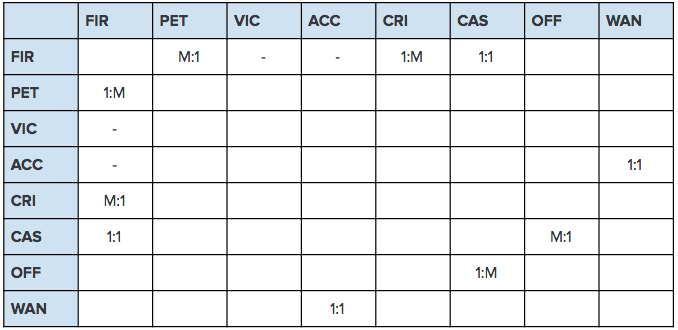
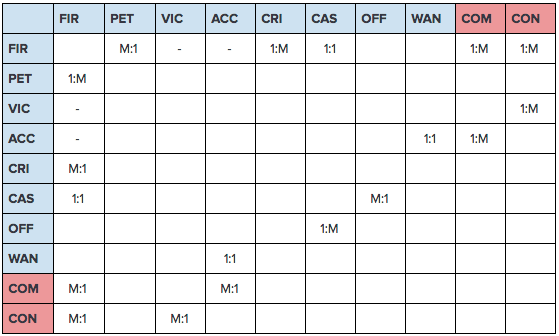
update

Changed region(s): [[0.0, 0.0, 1.0, 1.0]]

diff --git a/README.md b/README.md
@@ -116,7 +116,6 @@ Computers, smartphones, tablets
 ### Wanted
 
 - **Wanted ID:** Unique number for wanted in the list
-- **Accused ID:** What accused ID held by wanted (as foreign key)
 - **Alias:** Nickname of wanted
 - **Height:** Height of wanted
 - **Race:** Racial information of wanted
@@ -180,10 +179,10 @@ There is **mandatory many to mandatory many** relationship between FIR and victi
 ### FIR - Accused
 
 - FIR is filed against accused.
-- One FIR can point more than one accused. However, an accused can be unknown.
+- One FIR can point more than one accused.
 - More than one FIRs can point one accused, and one accused is always pointed by at least one FIR.
 
-There is **mandatory many to optional many** relationship between FIR and accused.
+There is **mandatory many to mandatory many** relationship between FIR and accused.
 
 ### FIR - Crime
 
@@ -248,7 +247,7 @@ Table 2: The matrix of real relationships after eliminating the relation M:M
 
 FIR_No ⟶ {NID, Date_Reported, Time_Reported, Detail}
 
-Normal Form: BCNF
+Normal Form: 3NF
 
 
 - Table Name: Petitioner
@@ -257,29 +256,31 @@ Normal Form: BCNF
 
 NID ⟶ {First_Name, Middle_Name, Last_Name, Street_Name, Apartment_No, Door_No, City, District, Contact_No}
 
-Normal Form: BCNF
+Normal Form: 3NF
+
 
 
 - Table Name: Victim
 
 ![table_Victim](src/table_VIC.png)
 
-NID⟶ Victim_ID
+Victim_ID is not same as the NID. One person can be victim in several times and cannot take the same Victim_ID twice or more. Victim_ID is generated while a FIR is reported.
 
 Victim_ID ⟶ {NID, First_Name, Middle_Name, Last_Name, Sex, Birth_Date, Nationality, Race, Education, Occupation}
 
-Normal Form: BCNF
+Normal Form: 3NF
+
 
 
 - Table Name: Accused
 
 ![table_Accused](src/table_ACC.png)
 
-NID ⟶ Accused_ID
+Accused_ID is not same as the NID. One person can be accused in several times and cannot take the same Accued_ID twice or more. Accused_ID is generated while a FIR is reported.
 
 Accused_ID ⟶ {NID, First_Name, Middle_Name, Last_Name, Sex, Birth_Date, Nationality, Race, Education, Occupation, Status}
 
-Normal Form: BCNF
+Normal Form: 3NF
 
 
 - Table Name: Crime
@@ -288,7 +289,7 @@ Normal Form: BCNF
 
 Crime_ID ⟶ {FIR_No, Crime_Name, Crime_Type, Date_Occured, Time_Occured, Street_Name, City, District, Latitude, Longitude}
 
-Normal Form: BCNF
+Normal Form: 3NF
 
 
 - Table Name: Case
@@ -299,7 +300,7 @@ Case_ID ⟶ {Officer_ID, FIR_No, Law_No, Status, Detail}
 
 {Officer_ID, Law_No} ⟶ {Case_ID, FIR_No, Status, Detail}
 
-Normal Form: BCNF
+Normal Form: 3NF
 
 
 - Table Name: Officer
@@ -308,7 +309,7 @@ Normal Form: BCNF
 
 Officer_ID ⟶ {First_Name, Middle_Name, Last_Name, Rank}
 
-Normal Form: BCNF
+Normal Form: 3NF
 
 
 - Table Name: Wanted
@@ -328,9 +329,12 @@ Normal Form: BCNF
 
 ![table_Contains](src/table_CON.png)
 
-Contain_ID ⟶ {FIR_No, Victim_No}
+Compound Key: {FIR_No, Victim_No}
 
-Normal Form: BCNF
+{FIR_No, Victim_No} ⟶ {FIR_No, Victim_No}
+
+Normal Form: 3NF
+
 
 
 - Table Name: Commits
@@ -338,10 +342,212 @@ Normal Form: BCNF
 
 ![table_Commits](src/table_COM.png)
 
-Commit_ID ⟶ {FIR_No, Accused_ID}
+Compound Key: {FIR_No, Accused_ID}
 
-Normal Form: BCNF
+{FIR_No, Accused_ID} ⟶ {FIR_No, Accused_ID}
+
+Normal Form: 3NF
+
 
 ## About “Detail” Columns
 
 Although the “Detail” columns do not contain a single value and technically violate the normal forms, it is important to store data as comments in this specific domain area. It is assumed that the Detail columns are atomic and exist only to give additional information. The columns can be removed in order to get rid off normalization violation, however it is not realistic. Police need information also as comment which are single value as a whole information.
+
+
+# DATA DEFINITION LANGUAGE (DDL)
+
+DDL consists of the statements used to Create, Alter, and Drop database objects.
+
+- Create Database:
+```SQL
+CREATE DATABASE CrimeRecords;
+```
+
+- Drop Database:
+```SQL
+DROP DATABASE CrimeRecords;
+```
+
+- Create Table:
+```SQL
+CREATE TABLE FIR(
+	FIR_NO INT,
+	Date_Reported DATE
+	Time_Reported TIME
+	Detail VARCHAR(200));
+
+```
+
+- Alter Table:
+```SQL
+ALTER TABLE Petitioner(
+	DROP District VARCHAR(45),
+	ADD State VARCHAR(45));
+```
+
+- Drop Table:
+```SQL
+DROP TABLE Petitioner;
+```
+
+- Truncate Table:
+```SQL
+TRUNCATE TABLE FIR;
+```
+(TRUNCATE TABLE statement removes all rows from a table.)
+
+# DATA MODIFICATION LANGUAGE (DML)
+
+DML consists of the statements used to Retrieve, Insert, Update, and Remove data within DB objects.
+
+- Retrieve
+```SQL
+SELECT First_Name, Last_Name, Contact_No
+FROM Petitioner
+```
+
+- Insert
+```SQL
+INSERT INTO Case (FIR_No, Law_No, Status, Officer_ID)
+VALUES (111847, 1746345, ‘Open’, 1010)
+```
+
+- Update
+```SQL
+UPDATE Victim 
+SET Sex=‘E’, Birt_Date= ‘12-09-1987’, Race= ‘Asian’, NID= 110680282
+WHERE Victim_ID= 20024
+```
+
+- Delete
+```SQL
+DELETE FROM Accused
+WHERE NID= 10020045 
+```
+
+# TYPICAL QUERIES
+
+- Print the full names and wanted IDs of the most wanteds.
+```SQL
+SELECT A.First_Name, A.Middle_Name, A.Last_Name, W.Wanted_ID
+FROM Wanted W
+JOIN Accused A ON A.Accused_ID = W.Accused_ID
+WHERE W.Most_Wanted = 1
+```
+
+- Print the national identity numbers and number of filed FIRs of petitioners who have filed more than 1 FIR in 2015.
+```SQL
+SELECT P.NID, Count (F.FIR_No)
+FROM Petitioner P
+JOIN FIR F ON F.NID = P.NID
+WHERE YEAR(F.Date_Reported) = 2015
+GROUP BY P.NID
+HAVING Count (F.FIR_No) > 1
+```
+
+- Print all the property crimes investigated by officer Carey Mahoney.
+```SQL
+SELECT *
+FROM Crime C
+JOIN FIR F ON F.FIR_No = C.FIR_No
+JOIN Case CA ON CA.FIR_No = F.FIR_No
+JOIN Officer OF ON OF.Officer_ID = CA.Officer_ID
+WHERE C.Crime_Type = “Property Crime” AND OF.First_Name = “Carey” AND OF.Last_Name = ‘Mahoney’
+```
+
+- Print the education information of accused ones who have been arrested for burglary.
+```SQL
+SELECT A.Education
+FROM Accused A
+JOIN Commits Co ON Co.Accused_ID = A.Accused_ID
+JOIN FIR F ON F.FIR_No = Co.FIR_No
+JOIN Crime CR ON CR.FIR_No = F.FIR_No
+WHERE CR.Crime_Name = “Burglary” AND A.Status = “Arrested”
+```
+
+- Print the number of crimes, grouped by crime type since 2015.
+```SQL
+SELECT CR.Crime_Type, Count(CR.Crime_ID)
+FROM Crime CR
+WHERE CR.Date_Occured > ‘01.01.2015’
+GROUP BY CR.Crime_Type
+```
+
+- Print the top 10 accused who have committed more crimes than last year.
+```SQL
+WITH Table2018 AS (
+SELECT TOP 10 A.Accused_ID, A.First_Name, A.Middle_Name, A.Last_Name, COUNT(CR.Crime_ID) AS CrimeNum2018
+FROM Accused A
+JOIN Commits Co ON Co.Accused_ID = A.Accused_ID
+JOIN FIR F ON F.FIR_No = Co.FIR_No
+JOIN Crime CR ON CR.FIR_No = F.FIR_No
+WHERE YEAR(CR.Date_Occured) = 2018
+GROUP BY A.Accused_ID, A.First_Name, A.Middle_Name, A.Last_Name
+ORDER BY CrimeNum2018 DESC),
+Table2017 AS (
+SELECT TOP 10 A.Accused_ID, A.First_Name, A.Middle_Name, A.Last_Name, COUNT(CR.Crime_ID) AS CrimeNum2017
+FROM Accused A
+JOIN Commits Co ON Co.Accused_ID = A.Accused_ID
+JOIN FIR F ON F.FIR_No = Co.FIR_No
+JOIN Crime CR ON CR.FIR_No = F.FIR_No
+WHERE YEAR(CR.Date_Occured) = 2017
+GROUP BY A.Accused_ID, A.First_Name, A.Middle_Name, A.Last_Name)
+SELECT *
+FROM Table2018
+WHERE CrimeNum2018 > (SELECT COUNT(CrimeNum2017) FROM Table2017)
+```
+
+# SIZE OF THE DATABASE
+
+INT:  4 Bytes,		DATE:	3 Bytes,		TIME:	4 Bytes,		VARCHAR(n):	n Bytes
+
+Table Petitioner:  327 Bytes,
+
+Table FIR:  208 Bytes,
+
+Table Victim:  327 Bytes,
+
+Table Accused:  372 Bytes,
+
+Table Wanted:  434 Bytes,
+
+Table Crime:  244 Bytes,
+
+Table Case:  253 Bytes,
+
+Table Officer:   184 Bytes
+
+In a district with average 800.000 population, the expected crime number is 5000 to 10.000 in a year. Each crime has minimum 1 FIR, 1 Accused, 1 Victim, 1 Petitioner, 1 Case, and 1 Officer.
+
+1 crime =~ 6 tables =~ 57 columns
+
+1 crime =~ 1915 Bytes
+
+100 crime =~ 1 wanted =~ 9 columns =~ 191934 Bytes =~ 187 KB
+
+5000 crime x index factor x overhead factor = 187 x 50 x 2 x 1.2 = 22440 KB =~ 21 MB
+
+10000 crime x index factor x overhead factor = 187 x 100 x 2 x 1.2 = 22440 KB =~ 42 MB
+
+Additional approximate records for 1:M relations =~ 10 - 20 MB
+
+Total =~ 30 MB - 60 MB
+
+In a country with average 10 Millions population, the expected crime number is 50.000 to 100.000 in a year.
+
+Total =~ 300 MB - 600 MB
+
+**In 3 years, the expected database size for a country with average 10 Millions population is 900 MB - 1.8 GB.**
+
+# CONCLUSION
+
+The relational model is a good choice for the domain, easy to implement and understand. The database holds huge amount of data. It is normalized by transforming M:M relations into 1:M and adding additional data objects. Data is meaningful and can be analyzed as more records are added and the database grows. It can show us,
+- How many crimes in total in a city, district or the whole country,
+- What the general profile of the criminals is in terms of age, occupation, and education,
+- What should be considered first in order to prevent crimes from happening,
+- What the major crime types and names are,
+- How many FIRs in average are reported in a month,
+- How many crimes in average are committed by one accused,
+- How the growth of number of crimes month by month and year by year,
+- Whether the solutions to decrease the number of crimes are effective according to the analysis.
+
